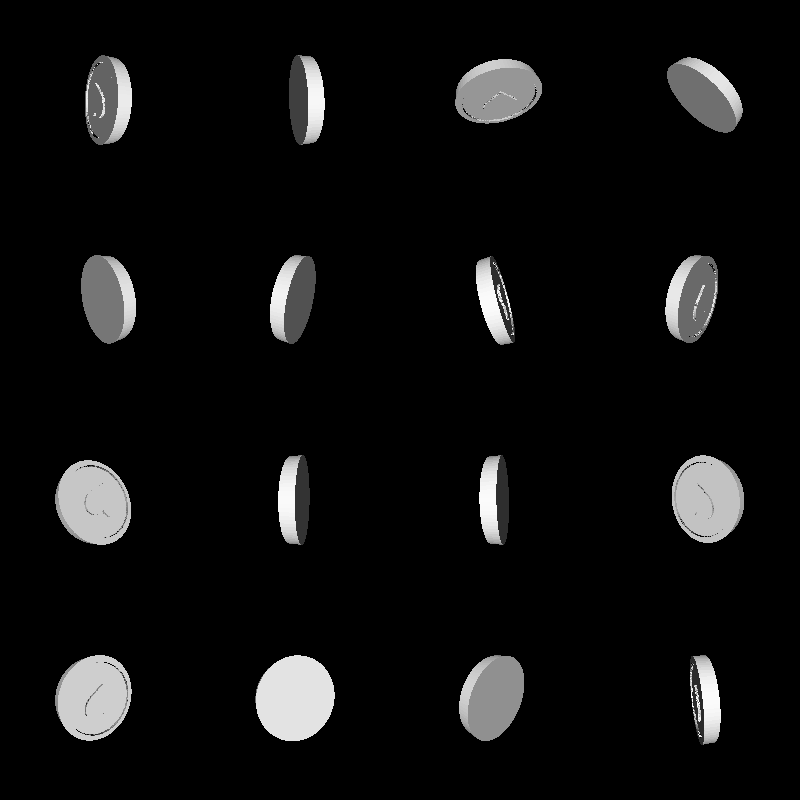
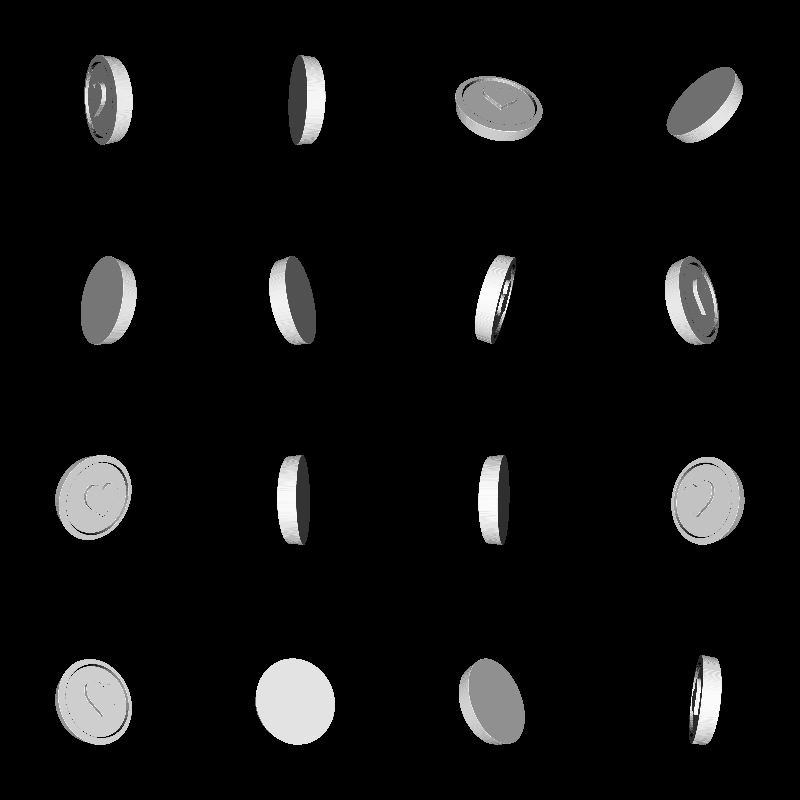
simpler coin with solid API
The coin is also less jagged and more amenable to slicing software.

diff --git a/examples/romantic/coin/main.go b/examples/romantic/coin/main.go
@@ -14,11 +14,6 @@ import (
 	"github.com/unixpickle/model3d"
 )
 
-const (
-	NumSlices = 100
-	NumStops  = 200
-)
-
 func main() {
 	var outFile string
 	var renderFile string
@@ -42,115 +37,48 @@ func main() {
 	f.Close()
 	essentials.Must(err)
 
-	hFunc := &HeightFunc{
+	solid := &CoinSolid{
 		Img:       templateImg,
 		MinHeight: minHeight,
 		MaxHeight: maxHeight,
+		Radius:    radius,
 	}
 
-	m := CreateRoundMesh(hFunc, radius)
-	for i := 0; i < 11; i++ {
-		Subdivide(m, hFunc, radius)
-	}
-	FillVolume(m)
+	m := model3d.SolidToMesh(solid, radius/40, 3, 0.8, 5)
 
 	essentials.Must(ioutil.WriteFile(outFile, m.EncodeSTL(), 0755))
 	essentials.Must(model3d.SaveRandomGrid(renderFile, model3d.MeshToCollider(m), 4, 4, 200, 200))
 }
 
-func CreateRoundMesh(h *HeightFunc, radius float64) *model3d.Mesh {
-	m := model3d.NewMesh()
-	midHeight := h.Height(0, 0)
-	for i := 0; i < NumSlices; i++ {
-		theta := 2 * math.Pi * float64(i) / NumSlices
-		nextTheta := 2 * math.Pi * float64((i+1)%NumSlices) / NumSlices
-		m.Add(&model3d.Triangle{
-			model3d.Coord3D{X: 0, Y: 0, Z: midHeight},
-			h.Coord(theta, 1, radius),
-			h.Coord(nextTheta, 1, radius),
-		})
-	}
-	return m
-}
-
-func Subdivide(m *model3d.Mesh, h *HeightFunc, radius float64) {
-	subdivider := model3d.NewSubdivider()
-	subdivider.AddFiltered(m, func(p1, p2 model3d.Coord3D) bool {
-		return !h.IsFlat(p1, p2, radius)
-	})
-	subdivider.Subdivide(m, func(p1, p2 model3d.Coord3D) model3d.Coord3D {
-		x := (p1.X + p2.X) / 2
-		y := (p1.Y + p2.Y) / 2
-		theta := math.Atan2(y, x)
-		r := math.Sqrt(x*x+y*y) / radius
-		return h.Coord(theta, r, radius)
-	})
-}
-
-func FillVolume(m *model3d.Mesh) {
-	m.Iterate(func(t *model3d.Triangle) {
-		t1 := *t
-		for i := range t1 {
-			t1[i].Z = 0
-		}
-
-		// Create sides for edge triangles.
-		for i := 0; i < 3; i++ {
-			a := i
-			b := (i + 1) % 3
-			if len(m.Find(t[a], t[b])) == 1 {
-				m.Add(&model3d.Triangle{t[b], t[a], t1[a]})
-				m.Add(&model3d.Triangle{t[b], t1[a], t1[b]})
-			}
-		}
-
-		// Flip normal for bottom face.
-		t1[1], t1[2] = t1[2], t1[1]
-
-		m.Add(&t1)
-	})
-}
-
-type HeightFunc struct {
+type CoinSolid struct {
 	Img       image.Image
 	MinHeight float64
 	MaxHeight float64
+	Radius    float64
 }
 
-func (h *HeightFunc) Height(theta, radius float64) float64 {
-	x := math.Round((math.Cos(theta)*radius + 1) * float64(h.Img.Bounds().Dx()) / 2)
-	y := math.Round((1 - math.Sin(theta)*radius) * float64(h.Img.Bounds().Dy()) / 2)
-	c := h.Img.At(int(x), int(y))
-	r, g, b, _ := color.RGBAModel.Convert(c).RGBA()
-	relHeight := 1 - float64(r+g+b)/(3*0xffff)
-	return h.MinHeight + (h.MaxHeight-h.MinHeight)*relHeight
+func (c *CoinSolid) Min() model3d.Coord3D {
+	return model3d.Coord3D{X: -c.Radius, Y: -c.Radius}
 }
 
-func (h *HeightFunc) Coord(theta, radius, radiusScale float64) model3d.Coord3D {
-	return model3d.Coord3D{
-		X: radiusScale * radius * math.Cos(theta),
-		Y: radiusScale * radius * math.Sin(theta),
-		Z: h.Height(theta, radius),
-	}
+func (c *CoinSolid) Max() model3d.Coord3D {
+	return model3d.Coord3D{X: c.Radius, Y: c.Radius, Z: c.MaxHeight}
 }
 
-func (h *HeightFunc) IsFlat(p1, p2 model3d.Coord3D, radius float64) bool {
-	if p1.Z != p2.Z {
+func (c *CoinSolid) Contains(coord model3d.Coord3D) bool {
+	theta := math.Atan2(coord.Y, coord.X)
+	radius := (model3d.Coord2D{X: coord.X, Y: coord.Y}).Norm() / c.Radius
+	if radius > 1 {
 		return false
 	}
+	return coord.Z < c.height(theta, radius) && coord.Z >= 0
+}
 
-	totalDist := p1.Dist(p2)
-
-	for t := 0.0; t < totalDist; t += radius / NumStops {
-		frac := t / totalDist
-		x := p1.X*(1-frac) + p2.X*frac
-		y := p1.Y*(1-frac) + p2.Y*frac
-		theta := math.Atan2(y, x)
-		r := math.Sqrt(x*x+y*y) / radius
-		if h.Height(theta, r) != p1.Z {
-			return false
-		}
-	}
-
-	return true
+func (c *CoinSolid) height(theta, radius float64) float64 {
+	x := math.Round((math.Cos(theta)*radius + 1) * float64(c.Img.Bounds().Dx()) / 2)
+	y := math.Round((1 - math.Sin(theta)*radius) * float64(c.Img.Bounds().Dy()) / 2)
+	rawColor := c.Img.At(int(x), int(y))
+	r, g, b, _ := color.RGBAModel.Convert(rawColor).RGBA()
+	relHeight := 1 - float64(r+g+b)/(3*0xffff)
+	return c.MinHeight + (c.MaxHeight-c.MinHeight)*relHeight
 }
